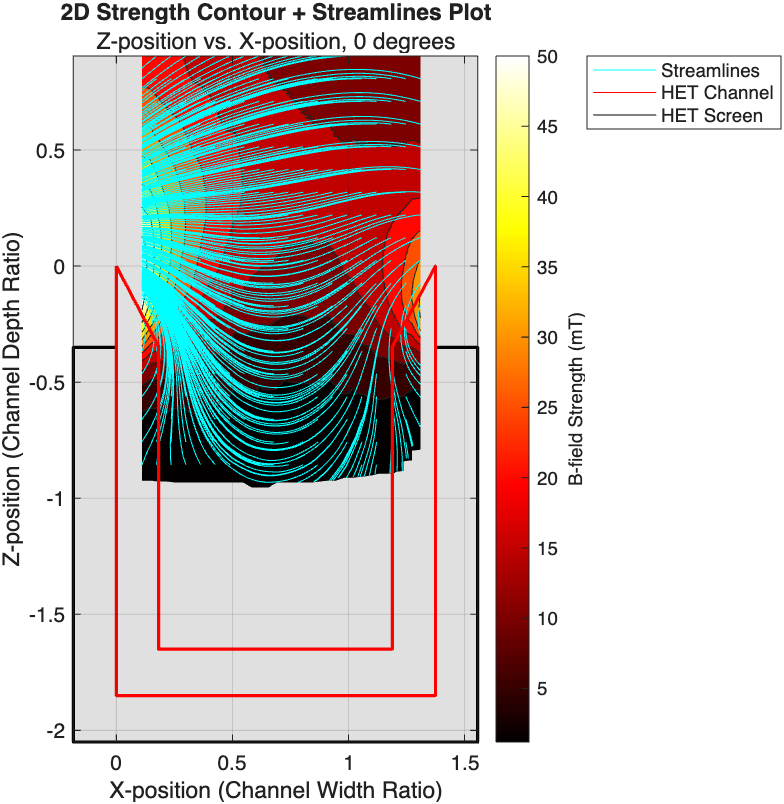
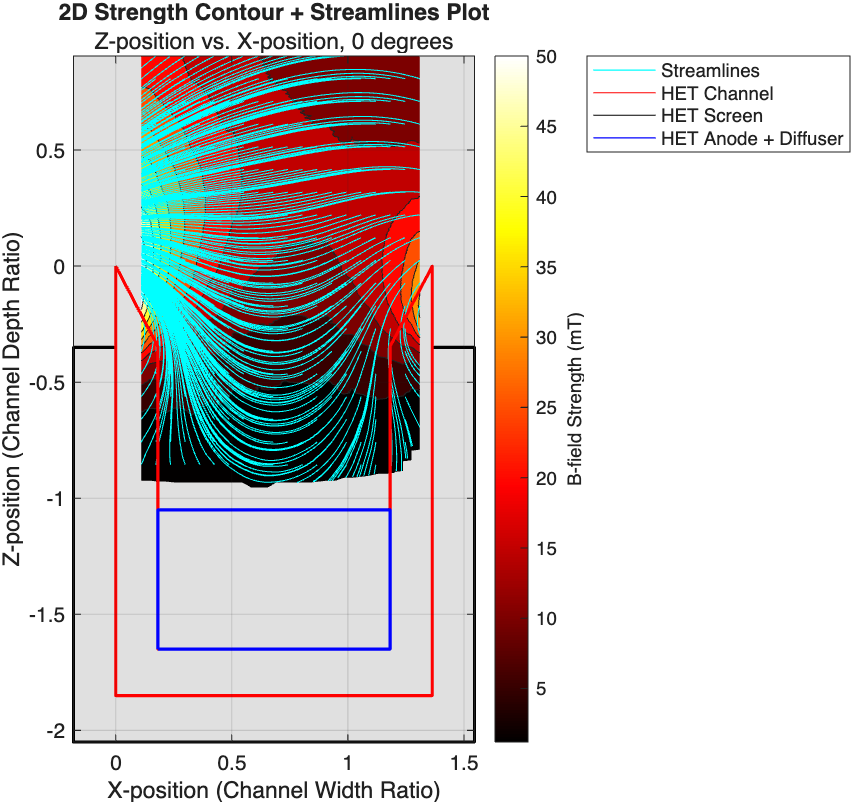
add anode and diffuser to mock comsol plot

diff --git a/datasets/mk.iv-2_6:17:26/csv files/mk_iv2_06_17_2026.m b/datasets/mk.iv-2_6:17:26/csv files/mk_iv2_06_17_2026.m
@@ -190,16 +190,19 @@ xlabel('X-position (Channel Width Ratio)')
 ylabel('Z-position (Channel Depth Ratio)')
 
 % Plot Channel and Screen Walls as lines (Dimensions in Solidworks)
-x_screen = [0 0 15.12 15.12 17.12 17.12 -2.04 -2.04 0]./channel_width;
+x_screen = [0 0 15 15 17 17 -2 -2 0]./channel_width;
 y_screen = [-3.5 -18.5 -18.5 -3.5 -3.5 -20.5 -20.5 -3.5 -3.5]./channel_depth;
-x_channel = [0 2 2 13.08 13.08 15.12 15.12 0 0]./channel_width;
-y_channel = [0 -3.46 -16.5 -16.5 -3.46 0 -18.5 -18.5 0]./channel_depth;
+x_channel = [0 2 2 13 13 15 15 0 0]./channel_width;
+y_channel = [0 -3.464 -16.5 -16.5 -3.464 0 -18.5 -18.5 0]./channel_depth;
+x_anode = [2 2 13 13 2]./channel_width;
+y_anode = [-16.5 -10.5 -10.5 -16.5 -16.5]./channel_depth;
 % add relevant geometry
 plot(x_screen, y_screen, 'k', 'LineWidth', 1.5)
 plot(x_channel, y_channel, 'r', 'LineWidth', 1.5)
+plot(x_anode, y_anode, 'b', 'LineWidth', 1.5)
 set(gca, 'color', [0.88 0.88 0.88]);
-legend_cust = [plot(nan, 'c'), plot(nan, 'r'), plot(nan, 'k')];
-legend(legend_cust, {'Streamlines', 'HET Channel', 'HET Screen'}, 'location', 'northeastoutside');
+legend_cust = [plot(nan, 'c'), plot(nan, 'r'), plot(nan, 'k'), plot(nan, 'b')];
+legend(legend_cust, {'Streamlines', 'HET Channel', 'HET Screen', 'HET Anode + Diffuser'}, 'location', 'northeastoutside');
 hold off;
 
 

diff --git a/template-scripts/continuous_template.m b/template-scripts/continuous_template.m
@@ -190,16 +190,19 @@ xlabel('X-position (Channel Width Ratio)')
 ylabel('Z-position (Channel Depth Ratio)')
 
 % Plot Channel and Screen Walls as lines (Dimensions in Solidworks)
-x_screen = [0 0 15.12 15.12 17.12 17.12 -2.04 -2.04 0]./channel_width;
+x_screen = [0 0 15 15 17 17 -2 -2 0]./channel_width;
 y_screen = [-3.5 -18.5 -18.5 -3.5 -3.5 -20.5 -20.5 -3.5 -3.5]./channel_depth;
-x_channel = [0 2 2 13.08 13.08 15.12 15.12 0 0]./channel_width;
-y_channel = [0 -3.46 -16.5 -16.5 -3.46 0 -18.5 -18.5 0]./channel_depth;
+x_channel = [0 2 2 13 13 15 15 0 0]./channel_width;
+y_channel = [0 -3.464 -16.5 -16.5 -3.464 0 -18.5 -18.5 0]./channel_depth;
+x_anode = [2 2 13 13 2]./channel_width;
+y_anode = [-16.5 -10.5 -10.5 -16.5 -16.5]./channel_depth;
 % add relevant geometry
 plot(x_screen, y_screen, 'k', 'LineWidth', 1.5)
 plot(x_channel, y_channel, 'r', 'LineWidth', 1.5)
+plot(x_anode, y_anode, 'b', 'LineWidth', 1.5)
 set(gca, 'color', [0.88 0.88 0.88]);
-legend_cust = [plot(nan, 'c'), plot(nan, 'r'), plot(nan, 'k')];
-legend(legend_cust, {'Streamlines', 'HET Channel', 'HET Screen'}, 'location', 'northeastoutside');
+legend_cust = [plot(nan, 'c'), plot(nan, 'r'), plot(nan, 'k'), plot(nan, 'b')];
+legend(legend_cust, {'Streamlines', 'HET Channel', 'HET Screen', 'HET Anode + Diffuser'}, 'location', 'northeastoutside');
 hold off;
 
 